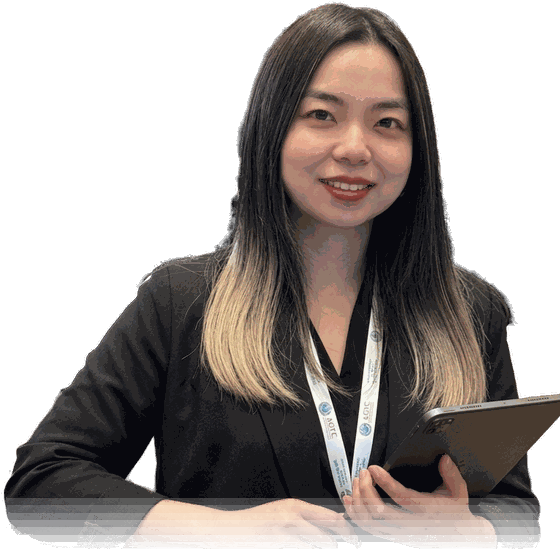
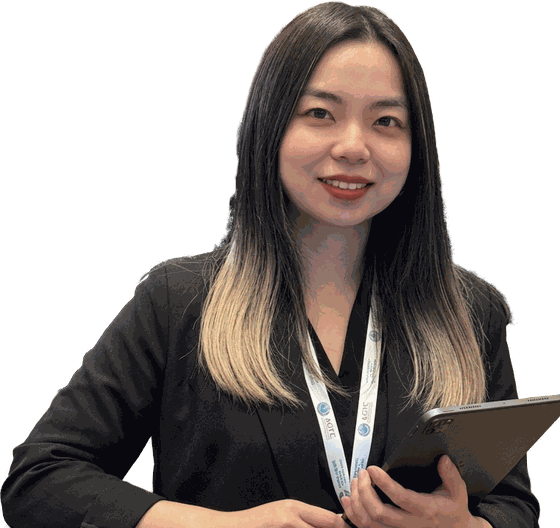
Hero cutout: hard bottom cut (no fade band), tighter alpha edges

Changed region(s): [[0.0, 0.0, 1.0, 1.0], [0.4857, 0.8182, 0.5161, 0.8485], [0.2732, 0.5455, 0.3036, 0.5758]]

diff --git a/site/index.html b/site/index.html
@@ -90,7 +90,7 @@ NO free trial anywhere (level test only). Levels are Newbie / Breaker / Speaker.
         <figure class="meet">
           <span class="meet-word" aria-hidden="true">Chloe</span>
           <span class="meet-script" aria-hidden="true">Meet</span>
-          <img class="meet-photo" src="assets/chloe-cutout-560.png" alt="Chloe" width="560" height="549" fetchpriority="high">
+          <img class="meet-photo" src="assets/chloe-cutout-560.png" alt="Chloe" width="560" height="528" fetchpriority="high">
         </figure>
         <p class="hero-name">Meet Chloe</p>
       </div>

diff --git a/site/index.en.html b/site/index.en.html
@@ -85,7 +85,7 @@
         <figure class="meet">
           <span class="meet-word" aria-hidden="true">Chloe</span>
           <span class="meet-script" aria-hidden="true">Meet</span>
-          <img class="meet-photo" src="assets/chloe-cutout-560.png" alt="Chloe" width="560" height="549" fetchpriority="high">
+          <img class="meet-photo" src="assets/chloe-cutout-560.png" alt="Chloe" width="560" height="528" fetchpriority="high">
         </figure>
         <p class="hero-name">Meet Chloe</p>
       </div>
